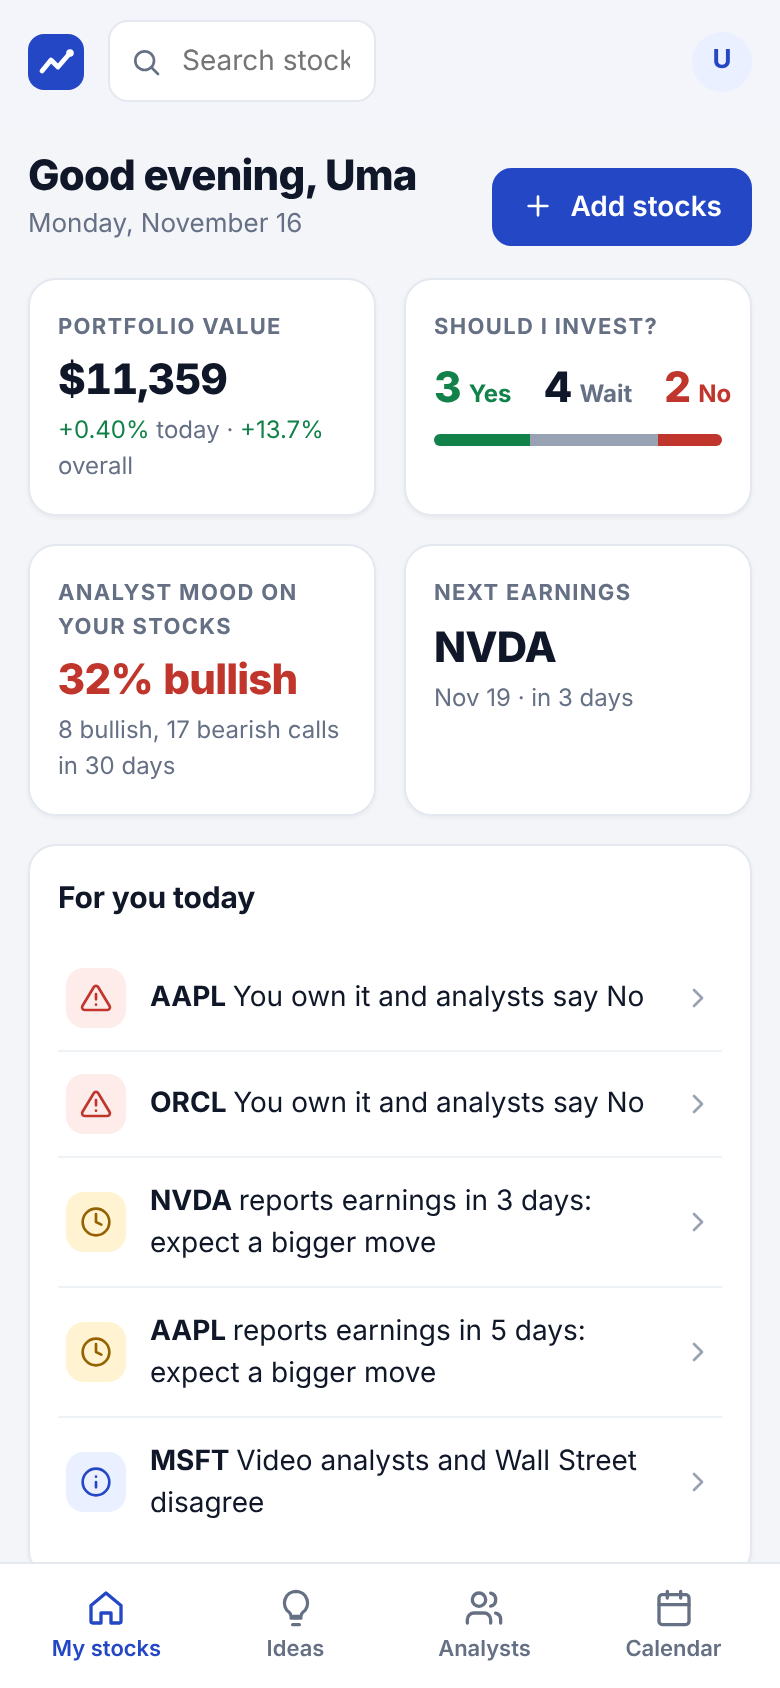
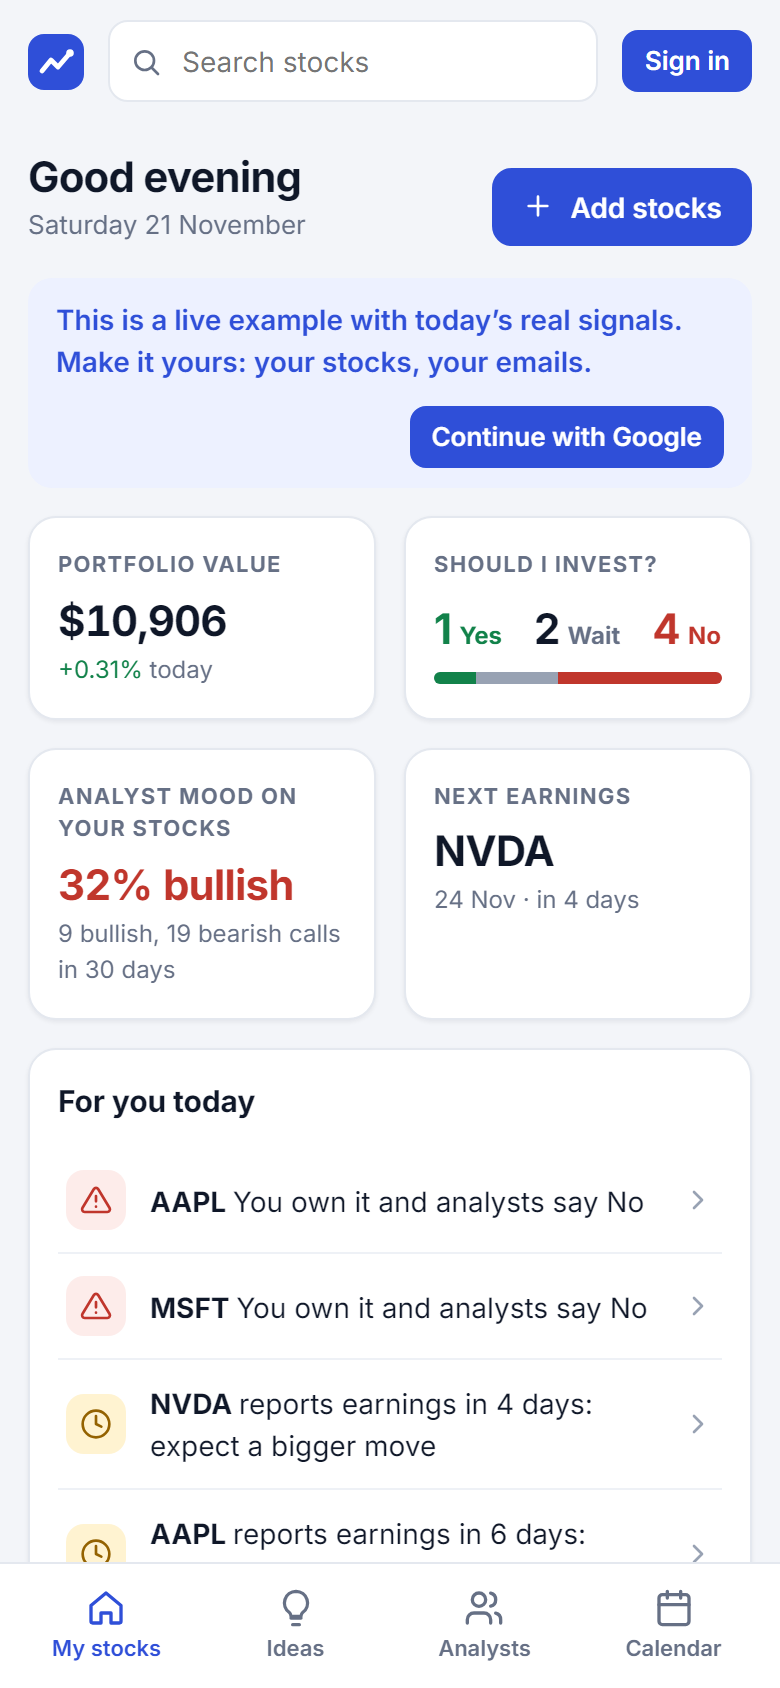
Cloud: market caps in T/B/M everywhere, phone top bar, fresh screenshots
- Market cap: an Indian browser wrote $3T as "$3.00LCr"; compact figures now
  use T/B/M except for rupee amounts.
- Phone: the search box gets the room ("Sign in" instead of "Sign in to save").
- The side menu's panel runs the full height of long pages.
- README screenshots retaken from the example data.

diff --git a/cloud/web/styles.css b/cloud/web/styles.css
@@ -59,7 +59,7 @@ button.chip{cursor:pointer}button.chip:hover{filter:brightness(.97)}
 .stars{display:inline-flex;gap:1px;vertical-align:-2px}.stars svg{width:13px;height:13px}
 
 /* ---------- shell */
-.shell{display:grid;grid-template-columns:var(--side) 1fr;min-height:100vh}
+.shell{display:grid;grid-template-columns:var(--side) 1fr;min-height:100vh;background:linear-gradient(90deg,var(--surface) calc(var(--side) - 1px),var(--line) calc(var(--side) - 1px),var(--line) var(--side),transparent var(--side))}
 .side{position:sticky;top:0;height:100vh;display:flex;flex-direction:column;gap:4px;padding:18px 12px;background:var(--surface);border-right:1px solid var(--line)}
 .logo{display:flex;align-items:center;gap:10px;font-weight:700;font-size:16px;letter-spacing:-.01em;color:var(--ink);padding:4px 8px 16px}
 .logo:hover{text-decoration:none}
@@ -78,7 +78,7 @@ button.chip{cursor:pointer}button.chip:hover{filter:brightness(.97)}
 .main{min-width:0}
 .top{position:sticky;top:0;z-index:20;display:flex;align-items:center;gap:12px;padding:12px 28px;background:color-mix(in srgb,var(--bg) 88%,transparent);backdrop-filter:blur(8px);border-bottom:1px solid transparent}
 .top.scrolled{border-bottom-color:var(--line)}
-.top .logo{display:none;padding:0}
+.top .logo{display:none;padding:0}.top-sp{flex:1}
 .search{position:relative;flex:1;max-width:460px}
 .search input{width:100%;border:1px solid var(--line);background:var(--surface);border-radius:10px;padding:9px 12px 9px 36px;outline:0}
 .search input:focus{border-color:var(--brand);box-shadow:0 0 0 3px var(--brand-soft)}
@@ -295,8 +295,8 @@ textarea.input{resize:vertical;min-height:110px}
 @media (max-width:1040px){.hide-x4{display:none}}
 @media (max-width:1100px){.flow>.cols{display:contents}.flow .f2{order:2}.flow .f3{order:3}.flow .f4{order:4}.cols{grid-template-columns:1fr}.hero{grid-template-columns:1fr}.g4{grid-template-columns:repeat(2,minmax(0,1fr))}.g3{grid-template-columns:1fr 1fr}.g3>:first-child:nth-last-child(3){grid-column:1/-1}}
 @media (max-width:920px){
-  .shell{grid-template-columns:1fr}.side{display:none}
-  .top{padding:10px 14px}.top .logo{display:flex}.top .logo span{display:none}
+  .shell{grid-template-columns:1fr;background:none}.side{display:none}
+  .top{padding:10px 14px}.top .logo{display:flex}.top .logo span{display:none}.top-sp{display:none}
   .page{padding:4px 14px 96px}
   .tabbar{display:grid;grid-template-columns:repeat(4,1fr);position:fixed;left:0;right:0;bottom:0;z-index:30;background:var(--surface);border-top:1px solid var(--line);padding:6px 6px calc(6px + env(safe-area-inset-bottom))}
   .tabbar a{display:grid;justify-items:center;gap:2px;padding:6px 2px;border-radius:10px;color:var(--muted);font-size:11px;font-weight:600}

diff --git a/cloud/web/js/app.js b/cloud/web/js/app.js
@@ -92,8 +92,8 @@ function shell(active, page) {
   input.onkeydown = e => { if (e.key === 'Enter') { const b = results.querySelector('button'); if (b && !results.hidden) b.click(); } if (e.key === 'Escape') { results.hidden = true; input.blur(); } };
   input.onblur = () => setTimeout(() => { results.hidden = true; }, 180);
   const freshBox = el('.fresh');
-  const top = el('.top', {}, el('a.logo', { href: '#/' }, logoMark()), el('.search', {}, icon('search'), input, results), el('span', { style: { flex: 1 } }),
-    data.example ? el('button.btn.primary.sm', { onclick: signIn }, 'Sign in to save') :
+  const top = el('.top', {}, el('a.logo', { href: '#/' }, logoMark()), el('.search', {}, icon('search'), input, results), el('span.top-sp'),
+    data.example ? el('button.btn.primary.sm', { onclick: signIn }, el('span.hide-m', { text: 'Sign in to save' }), el('span.hide-desktop', { text: 'Sign in' })) :
       el('a', { href: '#/account', 'aria-label': 'Account', class: 'hide-desktop' }, data.user && data.user.photoURL ? el('img.avatar', { src: data.user.photoURL, alt: '', referrerpolicy: 'no-referrer' }) : el('.avatar', { text: name[0].toUpperCase() })));
   const main = el('.main', {}, top, page);
   app.replaceChildren(el('.shell', {},

diff --git a/cloud/web/js/ui.js b/cloud/web/js/ui.js
@@ -30,7 +30,8 @@ export const tone = x => x == null ? 'mut' : x > 0 ? 'up' : x < 0 ? 'down' : 'mu
 export function money(x, cur = 'USD', compact = false) {
   if (x == null || isNaN(x)) return '—';
   const opts = cur && cur.length === 3 ? { style: 'currency', currency: cur } : {};
-  if (compact) return x.toLocaleString(undefined, { ...opts, notation: 'compact', maximumFractionDigits: 2 });
+  // compact: T, B, M for every currency but the rupee (an Indian browser would otherwise write $3T as "$3.00LCr")
+  if (compact) return x.toLocaleString(cur === 'INR' ? 'en-IN' : 'en-US', { ...opts, notation: 'compact', maximumFractionDigits: 2 });
   const big = Math.abs(x) >= 10000;
   return x.toLocaleString(undefined, { ...opts, maximumFractionDigits: big ? 0 : 2, minimumFractionDigits: big ? 0 : 2 });
 }
